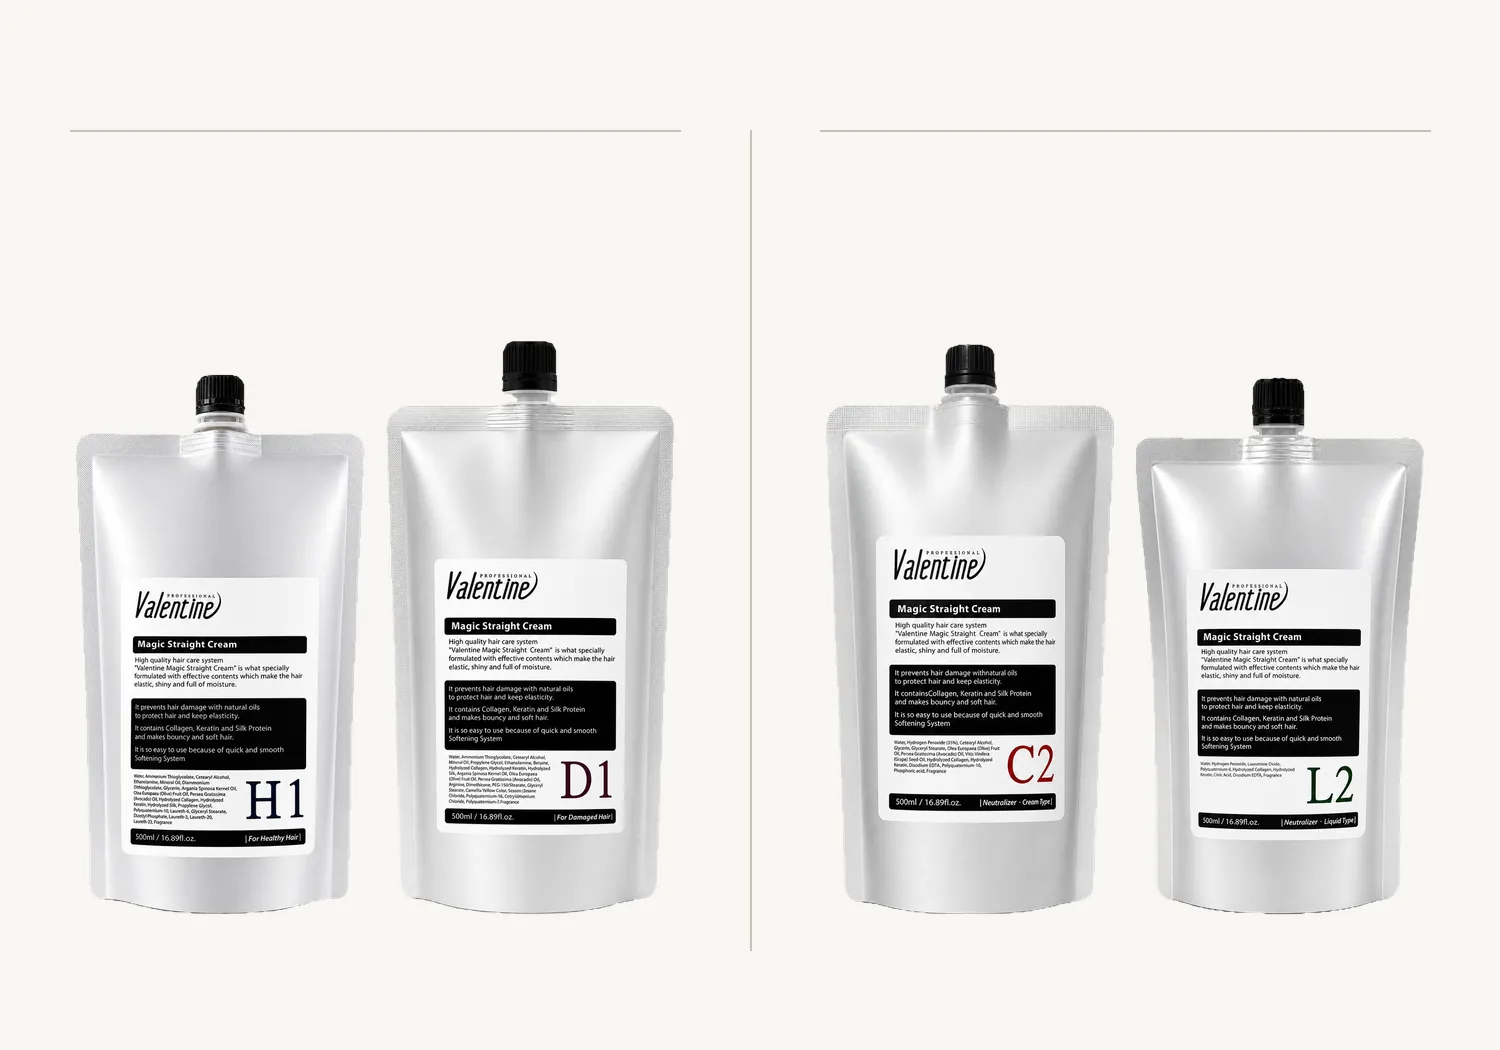
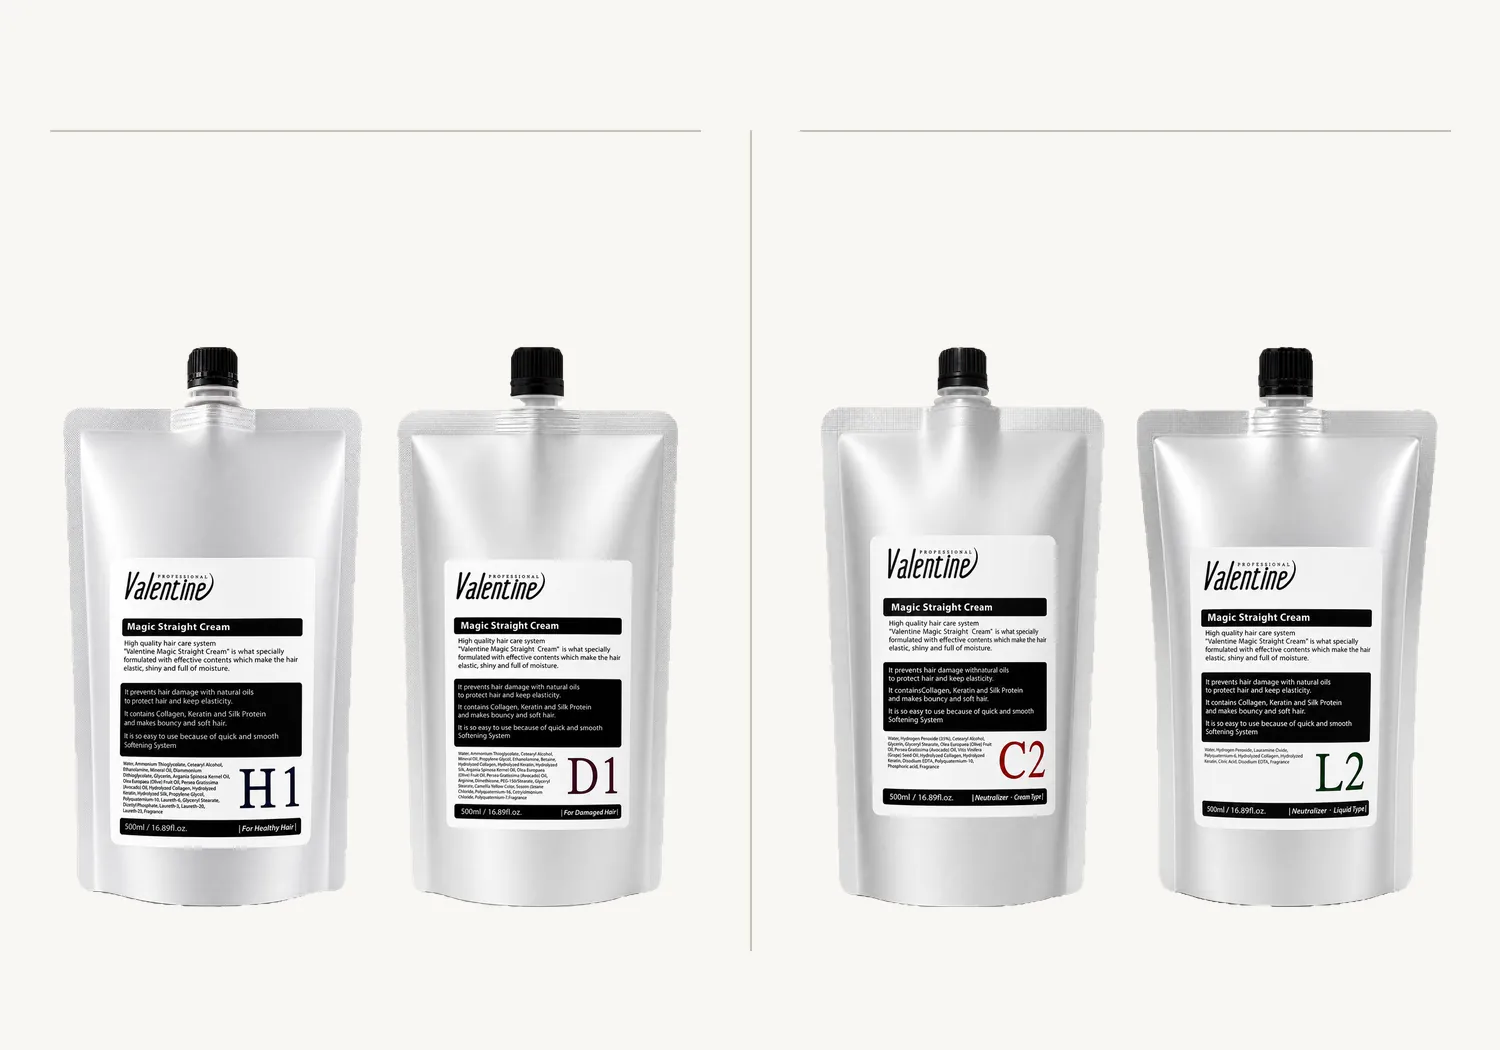
[수정] 멀티펌 상세 히어로 파우치 4종 크기 통일
- 원인: 박스 폭(300)이 스케일 제약이 되어 누끼 원본의 폭 편차가 높이 편차로 전환
  (실측: 폭 287 고정 / 높이 537~572, 상단선 36px 어긋남)
- 조치: 셀 폭 325로 넓혀 높이(572)가 제약축이 되게 하고 바닥선 정렬
- 결과: 4종 높이 559px, 상단 347 / 바닥 906 — 편차 0px
- CLAUDE.md에 높이 기준 스케일 규격과 자산 수정 후 검증 절차 기록

diff --git a/scripts/generate-valentine-assets.py b/scripts/generate-valentine-assets.py
@@ -30,9 +30,12 @@ def magic_assets() -> None:
     draw = ImageDraw.Draw(canvas)
     # Quiet vertical dividers make the two stages legible without changing label art.
     draw.line((750, 130, 750, 950), fill=(200, 192, 183, 255), width=2)
-    draw.line((70, 130, 680, 130), fill=(200, 192, 183, 255), width=2)
-    draw.line((820, 130, 1430, 130), fill=(200, 192, 183, 255), width=2)
-    for name, box in zip(('h1', 'd1', 'c2', 'l2'), ((70, 160, 300, 760), (380, 160, 300, 760), (820, 160, 300, 760), (1130, 160, 300, 760))):
+    draw.line((50, 130, 700, 130), fill=(200, 192, 183, 255), width=2)
+    draw.line((800, 130, 1450, 130), fill=(200, 192, 183, 255), width=2)
+    # 파우치 4종은 실물이 같은 500ml 규격이므로 화면에서도 높이가 같아야 한다.
+    # 박스 폭이 먼저 걸리면 누끼 원본의 폭 편차가 높이 편차(최대 6.5%)로 바뀌므로,
+    # 셀 폭(325)을 넉넉히 두어 높이(572)가 스케일 제약이 되게 한다. 바닥선은 913로 정렬.
+    for name, box in zip(('h1', 'd1', 'c2', 'l2'), ((50, 341, 325, 572), (375, 341, 325, 572), (800, 341, 325, 572), (1125, 341, 325, 572))):
         paste_fit(canvas, cutout(name), box)
     save(canvas, target / 'hero.webp', quality=80)
     # 카드 썸네일은 2×2로 세워 제품 덩어리가 캔버스를 세로 81% 채우게 한다(L.P.P 썸네일 83%와 균형).

diff --git a/CLAUDE.md b/CLAUDE.md
@@ -28,6 +28,8 @@ src/app/[locale]/
 - **태국어 전용이 확정 의도**(대표님 2026-07-26). ko/en 로케일에서도 상세 본문이 태국어인 것은 정상 — 번역 추가하지 말 것. `defaultLocale: 'th'` + `lang="th"` 유지.
 - **멀티펌 조합 규칙**: 1제(H1·D1)와 2제(C2·L2)는 무관하며 **1제 1개 + 2제 1개가 한 세트**, 조합 제한 없음. Formula Finder가 4조합을 모두 허용하는 것이 이 규칙과 일치. 정본 = `57 CEO/57 Shopee 유통/shopee-listings/valentine/product-data.md`
 - **썸네일 규격**: 800×800, 제품 높이 점유 **80±3%** + 상·하 여백 동일(수직 중앙). 멀티펌은 파우치 4개를 **2×2**로. 생성은 `scripts/generate-valentine-assets.py`(정본)만 사용 — 좌표 하드코딩 수정 후 `magic_assets()`/`lpp_assets()` 재실행.
+- 🚨 **파우치 스케일은 "높이" 기준으로 통일 (폭 기준 금지)**: 4종은 실물이 같은 500ml이므로 화면 높이도 같아야 한다. `paste_fit`은 `thumbnail((w,h))`로 원본 비율을 유지하므로 **박스 폭이 먼저 걸리면 누끼 원본의 폭 편차가 높이 편차로 바뀐다**(2026-07-26 히어로 실측: 폭 287 고정 → 높이 537~572, 상단선 36px 어긋남). 셀 폭을 넉넉히 두어 **높이가 제약축이 되게** 할 것. 현재 히어로 = 높이 559px·상단 347·바닥 906 4종 편차 0px.
+- **자산 수정 후 검증**: 4종 각각의 bbox를 재서 **높이·상단선·바닥선 편차가 모두 0px**인지 확인한 뒤 커밋(좌표만 보고 통과시키지 말고 기준선 그린 이미지로 눈 확인).
 - **카드 이중 표기**: Valentine만 첫 줄이 로케일 이름, 보조 줄은 태국어명. 두 줄이 같은 문장이면 보조 줄을 숨긴다(`ProductCatalog.tsx`) — 태국어 로케일·태국어명=영문명 제품에서 중복 방지.
 - 상세 히어로 STAGE 라벨은 모바일 2줄 / 데스크톱 한 줄. `validate-products.mjs`가 라벨 4조각을 개별 검사하므로 문구 변경 시 함께 갱신.
 
